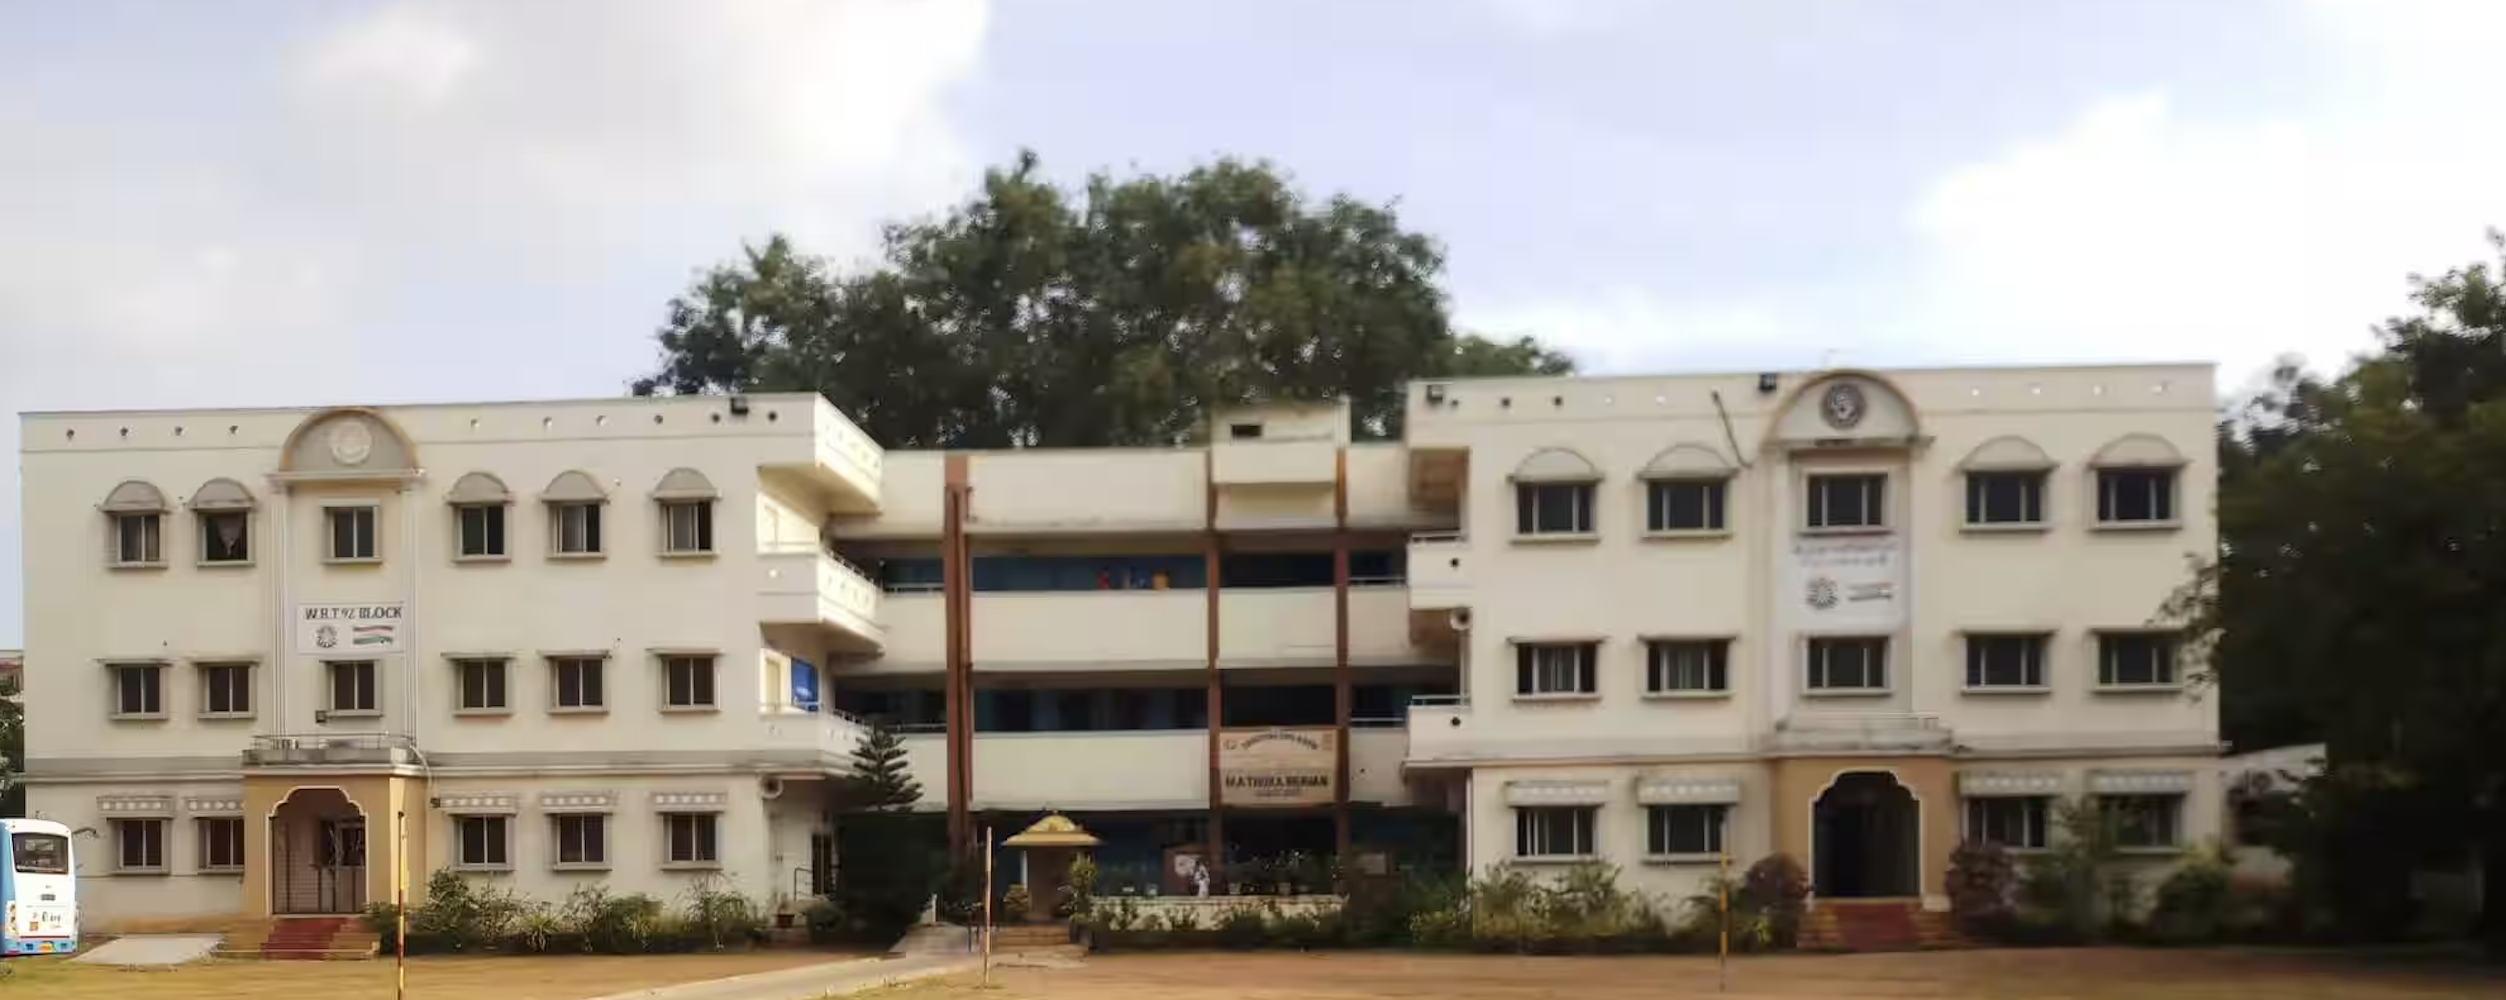
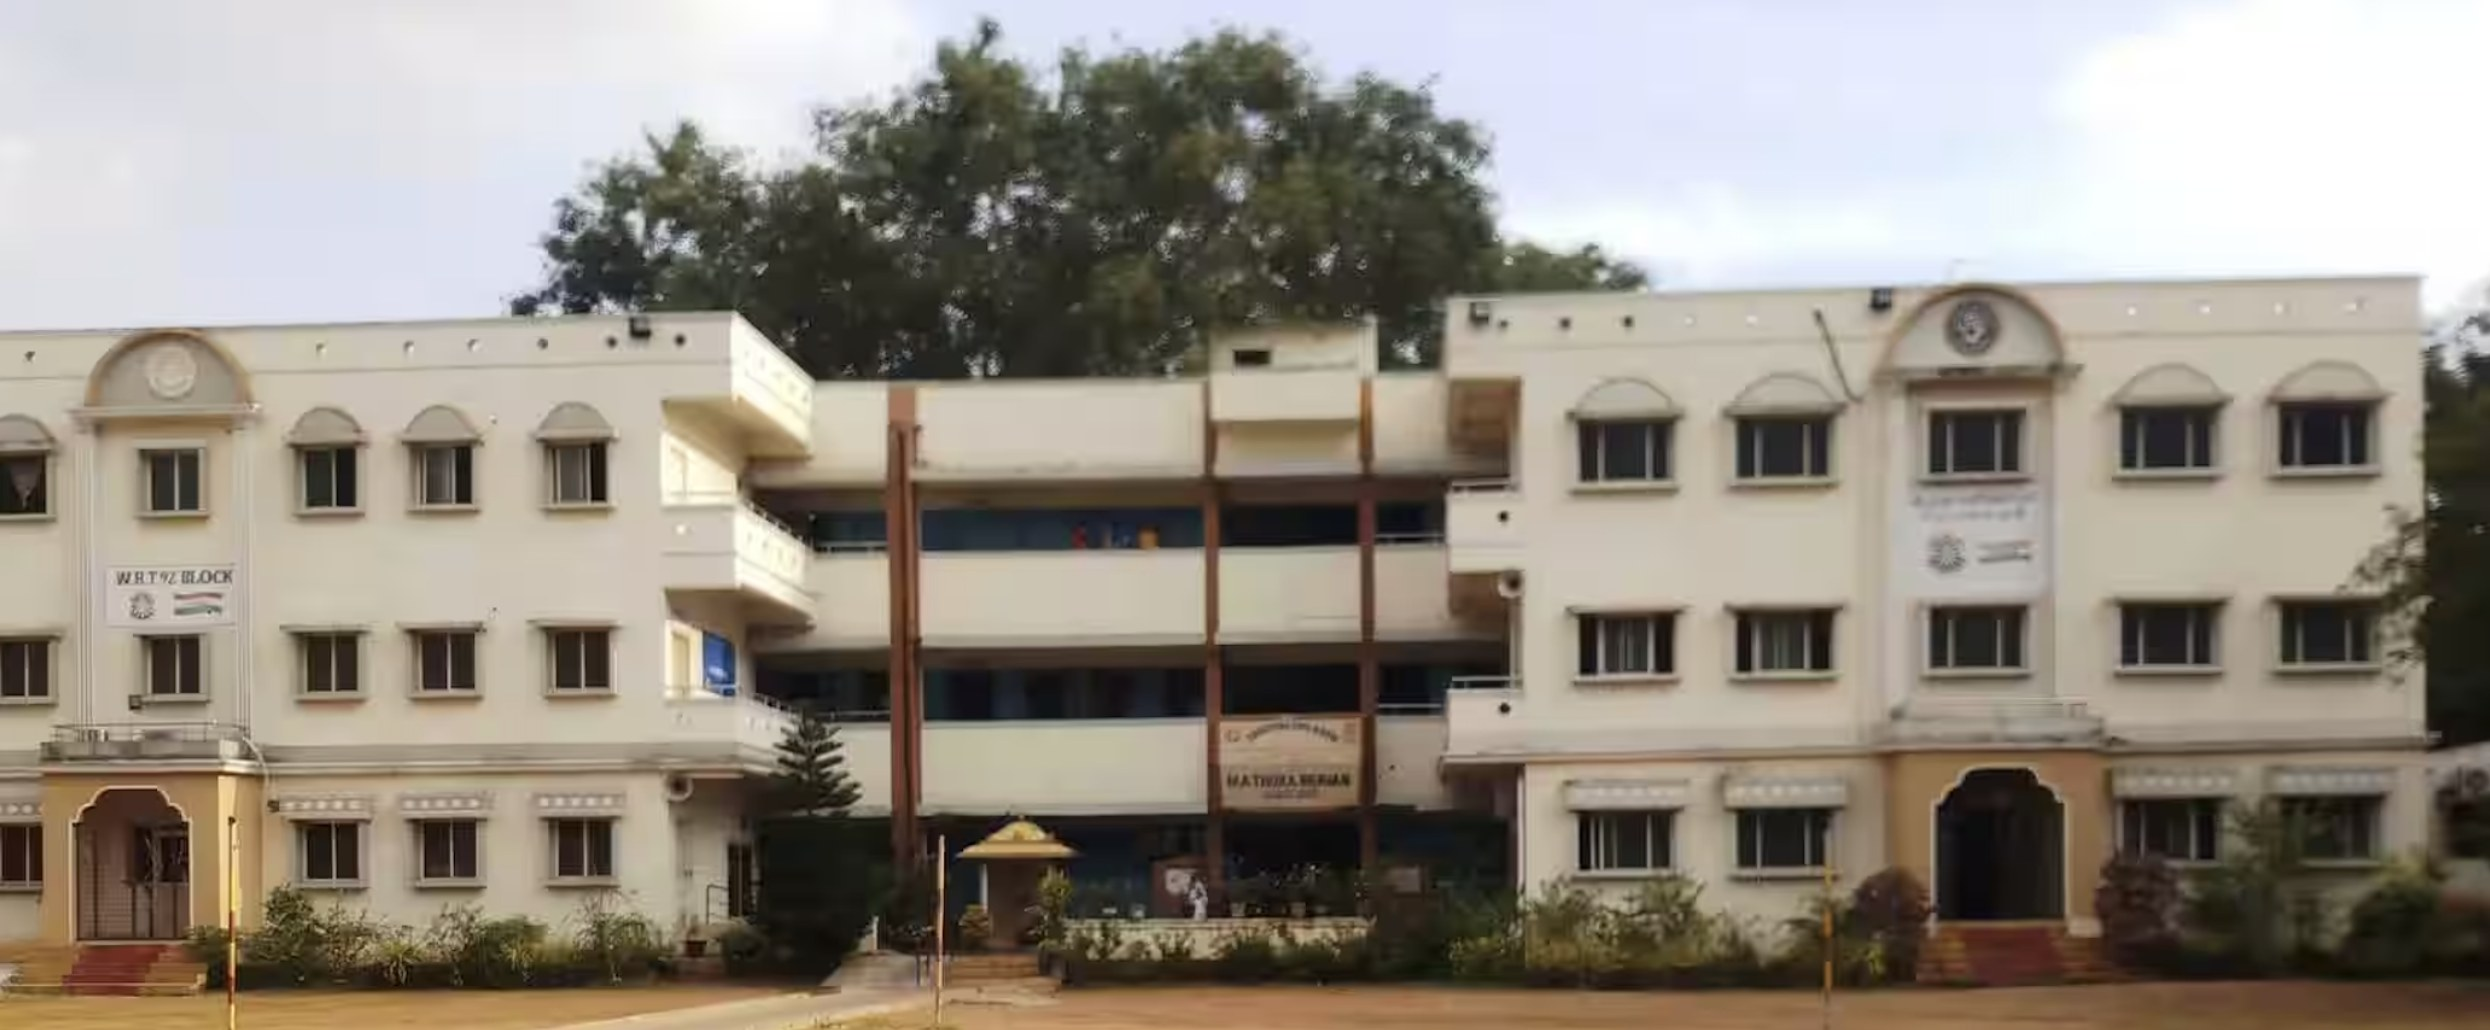
new design changes.

diff --git a/index.html b/index.html
@@ -7,7 +7,7 @@
   <meta name="description" content="Official alumni association of Sri T.V.S. Rao SriKrishna Vidya Mandir, Visakhapatnam. Reconnect. Rejoice. Rejuvenate.">
   <link rel="preconnect" href="https://fonts.googleapis.com">
   <link rel="preconnect" href="https://fonts.gstatic.com" crossorigin>
-  <link rel="stylesheet" href="https://fonts.googleapis.com/css2?family=Poppins:ital,wght@0,300;0,400;0,500;0,600;0,700;0,800;1,400;1,600&display=swap">
+  <link rel="stylesheet" href="https://fonts.googleapis.com/css2?family=Poppins:ital,wght@0,200;0,300;0,400;0,500;0,600;0,700;0,800;1,400;1,600&family=Playfair+Display:ital,wght@0,400;0,700;1,400;1,700&display=swap">
   <link rel="stylesheet" href="css/style.css">
 </head>
 <body>
@@ -84,28 +84,204 @@
     </div>
   </div>
 
-  <!-- Feature Cards -->
-  <section class="section section--white">
-    <p class="section__eyebrow" style="text-align:center;" data-anim>What We Do</p>
-    <h2 class="section__title" style="text-align:center; max-width:none;" data-anim>Building Bonds That Last a Lifetime</h2>
-    <div class="cards-grid cards-grid--3" style="max-width:960px; margin:0 auto;" data-anim-stagger="100">
-      <div class="card" style="text-align:center;">
-        <div class="card__icon">🤝</div>
-        <h3 class="card__title">Community</h3>
-        <p class="card__body">Connect with fellow alumni across India and around the world. Share milestones, opportunities, and the spirit of SKVM wherever life takes you.</p>
+  <!-- Our Story -->
+  <section class="section section--white our-story">
+    <div class="our-story__grid">
+      <div class="our-story__media" data-anim="scale">
+        <img src="assets/school-building.jpg" alt="Sri T.V.S. Rao SriKrishna Vidya Mandir campus">
+        <div class="our-story__badge">
+          <div class="our-story__badge-year">1975</div>
+          <div class="our-story__badge-caption">A Legacy of<br>Learning</div>
+        </div>
       </div>
-      <div class="card" style="text-align:center;">
-        <div class="card__icon">🎓</div>
-        <h3 class="card__title">Scholarships</h3>
-        <p class="card__body">Support deserving students through alumni-funded scholarships. Give back the gift of education that once shaped your own journey.</p>
-      </div>
-      <div class="card" style="text-align:center;">
-        <div class="card__icon">🏫</div>
-        <h3 class="card__title">Legacy</h3>
-        <p class="card__body">Help preserve and enrich the legacy of our beloved school. From infrastructure to cultural events, every contribution strengthens our roots.</p>
+      <div class="our-story__text" data-anim-stagger="90">
+        <p class="section__eyebrow">Our Story</p>
+        <h2 class="our-story__title">From one campus to 10+ countries</h2>
+        <p class="our-story__body">
+          Since 1975, generations of SKVM students have carried the school's values into the world &mdash;
+          as engineers, doctors, artists, entrepreneurs and citizens. The Alumni Association exists so that
+          no matter where life takes you, you're still part of the family.
+        </p>
+        <a href="about.html" class="our-story__link">Read Our Story <span aria-hidden="true">→</span></a>
       </div>
     </div>
   </section>
+
+  <style>
+    .our-story { padding: 72px 32px; }
+    .our-story__grid {
+      max-width: 1200px; margin: 0 auto;
+      display: grid; grid-template-columns: 1.6fr 1fr; gap: 56px;
+      align-items: center;
+    }
+    .our-story__media { position: relative; }
+    .our-story__media img {
+      width: 100%; height: auto; display: block;
+      border-radius: 12px;
+      box-shadow: 0 20px 48px rgba(0,0,0,0.14);
+    }
+    .our-story__badge {
+      position: absolute; right: -16px; bottom: -16px;
+      background: var(--blue-dark); color: var(--gold);
+      padding: 14px 18px; border-radius: 10px;
+      box-shadow: 0 10px 24px rgba(0,0,0,0.22);
+      text-align: center; min-width: 104px;
+    }
+    .our-story__badge-year {
+      font-family: 'Playfair Display', Georgia, serif;
+      font-weight: 700; font-style: italic;
+      font-size: 34px; letter-spacing: 1px; line-height: 1;
+      color: var(--gold);
+    }
+    .our-story__badge-caption {
+      margin-top: 6px;
+      font-size: 9px; letter-spacing: 2px; text-transform: uppercase;
+      color: rgba(255,255,255,0.85); line-height: 1.4;
+    }
+    .our-story__title {
+      color: var(--blue-dark);
+      font-family: 'Poppins', serif; font-weight: 700;
+      font-size: clamp(28px, 3.4vw, 40px);
+      line-height: 1.15; letter-spacing: -0.2px;
+      margin: 12px 0 20px;
+    }
+    .our-story__body {
+      color: var(--brown); font-size: 16px; line-height: 1.85;
+      margin-bottom: 28px;
+    }
+    .our-story__link {
+      display: inline-block;
+      font-family: var(--nav-font); font-size: 13px; font-weight: 700;
+      letter-spacing: 2px; text-transform: uppercase;
+      color: var(--blue-dark);
+      padding-bottom: 6px;
+      border-bottom: 2px solid var(--gold);
+      transition: color 180ms ease, transform 180ms ease;
+    }
+    .our-story__link:hover { color: var(--blue-mid); transform: translateX(4px); }
+    .our-story__link span { margin-left: 4px; }
+    @media (max-width: 820px) {
+      .our-story__grid { grid-template-columns: 1fr; gap: 40px; }
+      .our-story__badge { right: 16px; bottom: -16px; padding: 18px 22px; }
+    }
+  </style>
+
+  <!-- What We Do -->
+  <section class="section section--parchment what-we-do">
+    <div class="what-we-do__inner">
+      <p class="section__eyebrow" data-anim>What We Do</p>
+      <h2 class="what-we-do__title" data-anim>Building bonds that last a lifetime</h2>
+
+      <div class="feature-grid" data-anim-stagger="100">
+        <article class="feature-card">
+          <div class="feature-card__icon" aria-hidden="true">
+            <svg viewBox="0 0 24 24" width="22" height="22" fill="none" stroke="currentColor" stroke-width="1.7" stroke-linecap="round" stroke-linejoin="round">
+              <circle cx="9" cy="8" r="3.2"/>
+              <circle cx="17" cy="9" r="2.5"/>
+              <path d="M3 19c.6-3 3-4.5 6-4.5s5.4 1.5 6 4.5"/>
+              <path d="M15 15.5c2-.3 4 .8 5 3"/>
+            </svg>
+          </div>
+          <h3 class="feature-card__title">Community</h3>
+          <p class="feature-card__body">Reconnect with classmates across India and the world. Share milestones, opportunities and the spirit of SKVM wherever life takes you.</p>
+          <a href="alumni-network.html" class="feature-card__link">Explore Network <span aria-hidden="true">→</span></a>
+        </article>
+
+        <article class="feature-card">
+          <div class="feature-card__icon" aria-hidden="true">
+            <svg viewBox="0 0 24 24" width="22" height="22" fill="none" stroke="currentColor" stroke-width="1.7" stroke-linecap="round" stroke-linejoin="round">
+              <path d="M2 9l10-4 10 4-10 4z"/>
+              <path d="M6 10.5V15c0 1.5 3 3 6 3s6-1.5 6-3v-4.5"/>
+              <path d="M22 9v5"/>
+            </svg>
+          </div>
+          <h3 class="feature-card__title">Scholarships</h3>
+          <p class="feature-card__body">Support deserving students through alumni-funded scholarships. Give back the gift of education that once shaped your own journey.</p>
+          <a href="give-back.html" class="feature-card__link">Give a Scholarship <span aria-hidden="true">→</span></a>
+        </article>
+
+        <article class="feature-card">
+          <div class="feature-card__icon" aria-hidden="true">
+            <svg viewBox="0 0 24 24" width="22" height="22" fill="none" stroke="currentColor" stroke-width="1.7" stroke-linecap="round" stroke-linejoin="round">
+              <path d="M12 3v14"/>
+              <path d="M12 3l6 3-6 3z" fill="currentColor"/>
+              <circle cx="12" cy="20" r="1.5"/>
+            </svg>
+          </div>
+          <h3 class="feature-card__title">Mentorship</h3>
+          <p class="feature-card__body">Guide the next generation. Offer advice, internships and career openings to students and recent graduates entering the world.</p>
+          <a href="contact.html" class="feature-card__link">Become a Mentor <span aria-hidden="true">→</span></a>
+        </article>
+
+        <article class="feature-card">
+          <div class="feature-card__icon" aria-hidden="true">
+            <svg viewBox="0 0 24 24" width="22" height="22" fill="none" stroke="currentColor" stroke-width="1.7" stroke-linecap="round" stroke-linejoin="round">
+              <path d="M4 20V10"/><path d="M10 20V6"/><path d="M16 20V13"/><path d="M3 20h18"/>
+              <circle cx="16" cy="8" r="1.5" fill="currentColor" stroke="none"/>
+            </svg>
+          </div>
+          <h3 class="feature-card__title">Legacy</h3>
+          <p class="feature-card__body">Preserve and enrich the school's legacy &mdash; from infrastructure to cultural events, every contribution strengthens our roots.</p>
+          <a href="give-back.html" class="feature-card__link">Build the Legacy <span aria-hidden="true">→</span></a>
+        </article>
+      </div>
+    </div>
+  </section>
+
+  <style>
+    .what-we-do { padding: 80px 32px; }
+    .what-we-do__inner { max-width: 1200px; margin: 0 auto; }
+    .what-we-do__title {
+      color: var(--blue-dark);
+      font-family: 'Poppins', serif; font-weight: 400;
+      font-size: clamp(18px, 2.4vw, 29px);
+      line-height: 1.15; letter-spacing: -0.3px;
+      margin: 8px 0 40px;
+      max-width: 720px;
+    }
+    .feature-grid {
+      display: grid; grid-template-columns: repeat(4, 1fr); gap: 24px;
+    }
+    @media (max-width: 1000px) { .feature-grid { grid-template-columns: repeat(2, 1fr); } }
+    @media (max-width: 560px)  { .feature-grid { grid-template-columns: 1fr; } }
+    .feature-card {
+      position: relative;
+      background: #fff; border-radius: 10px;
+      padding: 32px 28px 28px;
+      display: flex; flex-direction: column;
+      border: 1.5px solid var(--gold);
+      border-top-width: 4.5px;
+      box-shadow: 0 8px 24px rgba(23, 40, 131, 0.06);
+      transition: transform 200ms ease, box-shadow 200ms ease;
+    }
+    .feature-card:hover { transform: translateY(-4px); box-shadow: 0 16px 36px rgba(23, 40, 131, 0.12); }
+    .feature-card__icon {
+      width: 48px; height: 48px; border-radius: 50%;
+      background: rgba(23, 40, 131, 0.08); color: var(--blue-dark);
+      display: flex; align-items: center; justify-content: center;
+      margin-bottom: 20px;
+    }
+    .feature-card__title {
+      font-family: 'Poppins', serif; font-weight: 200;
+      color: var(--blue-dark);
+      font-size: 22px; letter-spacing: -0.1px;
+      margin-bottom: 12px;
+    }
+    .feature-card__body {
+      color: var(--brown); font-size: 14px; line-height: 1.7;
+      margin-bottom: 20px;
+      flex: 1;
+    }
+    .feature-card__link {
+      font-family: var(--nav-font); font-size: 12px; font-weight: 500;
+      letter-spacing: 2px; text-transform: uppercase;
+      color: var(--gold);
+      transition: color 180ms ease, transform 180ms ease;
+      display: inline-flex; align-items: center; gap: 6px;
+      align-self: flex-start;
+    }
+    .feature-card__link:hover { color: #b4922f; transform: translateX(4px); }
+  </style>
 
   <!-- Call to Action Banner -->
   <section class="section section--navy" style="text-align:center;" data-anim-stagger="80">

diff --git a/about.html b/about.html
@@ -7,7 +7,7 @@
   <meta name="description" content="Learn about Sri T.V.S. Rao SriKrishna Vidya Mandir — its history, educational philosophy, and the alumni association's mission.">
   <link rel="preconnect" href="https://fonts.googleapis.com">
   <link rel="preconnect" href="https://fonts.gstatic.com" crossorigin>
-  <link rel="stylesheet" href="https://fonts.googleapis.com/css2?family=Poppins:ital,wght@0,300;0,400;0,500;0,600;0,700;0,800;1,400;1,600&display=swap">
+  <link rel="stylesheet" href="https://fonts.googleapis.com/css2?family=Poppins:ital,wght@0,200;0,300;0,400;0,500;0,600;0,700;0,800;1,400;1,600&display=swap">
   <link rel="stylesheet" href="css/style.css">
 </head>
 <body>

diff --git a/give-back.html b/give-back.html
@@ -7,7 +7,7 @@
   <meta name="description" content="Support SriKrishna Vidya Mandir through the alumni association. Fund scholarships, infrastructure, and student welfare.">
   <link rel="preconnect" href="https://fonts.googleapis.com">
   <link rel="preconnect" href="https://fonts.gstatic.com" crossorigin>
-  <link rel="stylesheet" href="https://fonts.googleapis.com/css2?family=Poppins:ital,wght@0,300;0,400;0,500;0,600;0,700;0,800;1,400;1,600&display=swap">
+  <link rel="stylesheet" href="https://fonts.googleapis.com/css2?family=Poppins:ital,wght@0,200;0,300;0,400;0,500;0,600;0,700;0,800;1,400;1,600&display=swap">
   <link rel="stylesheet" href="css/style.css">
 </head>
 <body>

diff --git a/committee.html b/committee.html
@@ -7,7 +7,7 @@
   <meta name="description" content="Management committee and founder members of the SriKrishna Vidya Mandir Alumni Association, 2025–2028.">
   <link rel="preconnect" href="https://fonts.googleapis.com">
   <link rel="preconnect" href="https://fonts.gstatic.com" crossorigin>
-  <link rel="stylesheet" href="https://fonts.googleapis.com/css2?family=Poppins:ital,wght@0,300;0,400;0,500;0,600;0,700;0,800;1,400;1,600&display=swap">
+  <link rel="stylesheet" href="https://fonts.googleapis.com/css2?family=Poppins:ital,wght@0,200;0,300;0,400;0,500;0,600;0,700;0,800;1,400;1,600&display=swap">
   <link rel="stylesheet" href="css/style.css">
 </head>
 <body>

diff --git a/gallery.html b/gallery.html
@@ -7,7 +7,7 @@
   <meta name="description" content="Photos and memories from SKVM alumni events and school history.">
   <link rel="preconnect" href="https://fonts.googleapis.com">
   <link rel="preconnect" href="https://fonts.gstatic.com" crossorigin>
-  <link rel="stylesheet" href="https://fonts.googleapis.com/css2?family=Poppins:ital,wght@0,300;0,400;0,500;0,600;0,700;0,800;1,400;1,600&display=swap">
+  <link rel="stylesheet" href="https://fonts.googleapis.com/css2?family=Poppins:ital,wght@0,200;0,300;0,400;0,500;0,600;0,700;0,800;1,400;1,600&display=swap">
   <link rel="stylesheet" href="css/style.css">
   <style>
     /* ── Gallery Grid ── */

diff --git a/contact.html b/contact.html
@@ -7,7 +7,7 @@
   <meta name="description" content="Get in touch with the SriKrishna Vidya Mandir Alumni Association. We'd love to hear from you.">
   <link rel="preconnect" href="https://fonts.googleapis.com">
   <link rel="preconnect" href="https://fonts.gstatic.com" crossorigin>
-  <link rel="stylesheet" href="https://fonts.googleapis.com/css2?family=Poppins:ital,wght@0,300;0,400;0,500;0,600;0,700;0,800;1,400;1,600&display=swap">
+  <link rel="stylesheet" href="https://fonts.googleapis.com/css2?family=Poppins:ital,wght@0,200;0,300;0,400;0,500;0,600;0,700;0,800;1,400;1,600&display=swap">
   <link rel="stylesheet" href="css/style.css">
 </head>
 <body>

diff --git a/impact.html b/impact.html
@@ -7,7 +7,7 @@
   <meta name="description" content="The impact of SKVM alumni contributions on students and the school.">
   <link rel="preconnect" href="https://fonts.googleapis.com">
   <link rel="preconnect" href="https://fonts.gstatic.com" crossorigin>
-  <link rel="stylesheet" href="https://fonts.googleapis.com/css2?family=Poppins:ital,wght@0,300;0,400;0,500;0,600;0,700;0,800;1,400;1,600&display=swap">
+  <link rel="stylesheet" href="https://fonts.googleapis.com/css2?family=Poppins:ital,wght@0,200;0,300;0,400;0,500;0,600;0,700;0,800;1,400;1,600&display=swap">
   <link rel="stylesheet" href="css/style.css">
 </head>
 <body>

diff --git a/events.html b/events.html
@@ -7,7 +7,7 @@
   <meta name="description" content="Upcoming SKVM alumni events and reunions. Coming soon.">
   <link rel="preconnect" href="https://fonts.googleapis.com">
   <link rel="preconnect" href="https://fonts.gstatic.com" crossorigin>
-  <link rel="stylesheet" href="https://fonts.googleapis.com/css2?family=Poppins:ital,wght@0,300;0,400;0,500;0,600;0,700;0,800;1,400;1,600&display=swap">
+  <link rel="stylesheet" href="https://fonts.googleapis.com/css2?family=Poppins:ital,wght@0,200;0,300;0,400;0,500;0,600;0,700;0,800;1,400;1,600&display=swap">
   <link rel="stylesheet" href="css/style.css">
 </head>
 <body>

diff --git a/alumni-network.html b/alumni-network.html
@@ -7,7 +7,7 @@
   <meta name="description" content="Connect with SKVM alumni worldwide. Coming soon.">
   <link rel="preconnect" href="https://fonts.googleapis.com">
   <link rel="preconnect" href="https://fonts.gstatic.com" crossorigin>
-  <link rel="stylesheet" href="https://fonts.googleapis.com/css2?family=Poppins:ital,wght@0,300;0,400;0,500;0,600;0,700;0,800;1,400;1,600&display=swap">
+  <link rel="stylesheet" href="https://fonts.googleapis.com/css2?family=Poppins:ital,wght@0,200;0,300;0,400;0,500;0,600;0,700;0,800;1,400;1,600&display=swap">
   <link rel="stylesheet" href="css/style.css">
 </head>
 <body>

diff --git a/resources.html b/resources.html
@@ -7,7 +7,7 @@
   <meta name="description" content="Useful resources for SKVM alumni. Coming soon.">
   <link rel="preconnect" href="https://fonts.googleapis.com">
   <link rel="preconnect" href="https://fonts.gstatic.com" crossorigin>
-  <link rel="stylesheet" href="https://fonts.googleapis.com/css2?family=Poppins:ital,wght@0,300;0,400;0,500;0,600;0,700;0,800;1,400;1,600&display=swap">
+  <link rel="stylesheet" href="https://fonts.googleapis.com/css2?family=Poppins:ital,wght@0,200;0,300;0,400;0,500;0,600;0,700;0,800;1,400;1,600&display=swap">
   <link rel="stylesheet" href="css/style.css">
 </head>
 <body>

diff --git a/mentorship.html b/mentorship.html
@@ -7,7 +7,7 @@
   <meta name="description" content="SKVM alumni mentorship program. Coming soon.">
   <link rel="preconnect" href="https://fonts.googleapis.com">
   <link rel="preconnect" href="https://fonts.gstatic.com" crossorigin>
-  <link rel="stylesheet" href="https://fonts.googleapis.com/css2?family=Poppins:ital,wght@0,300;0,400;0,500;0,600;0,700;0,800;1,400;1,600&display=swap">
+  <link rel="stylesheet" href="https://fonts.googleapis.com/css2?family=Poppins:ital,wght@0,200;0,300;0,400;0,500;0,600;0,700;0,800;1,400;1,600&display=swap">
   <link rel="stylesheet" href="css/style.css">
 </head>
 <body>
